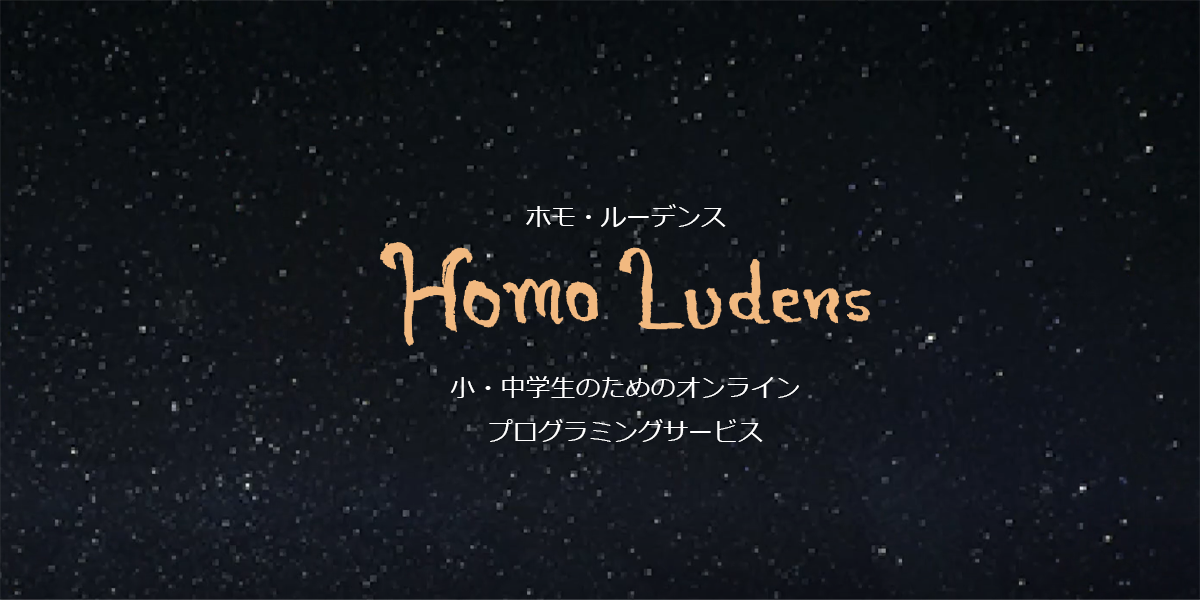
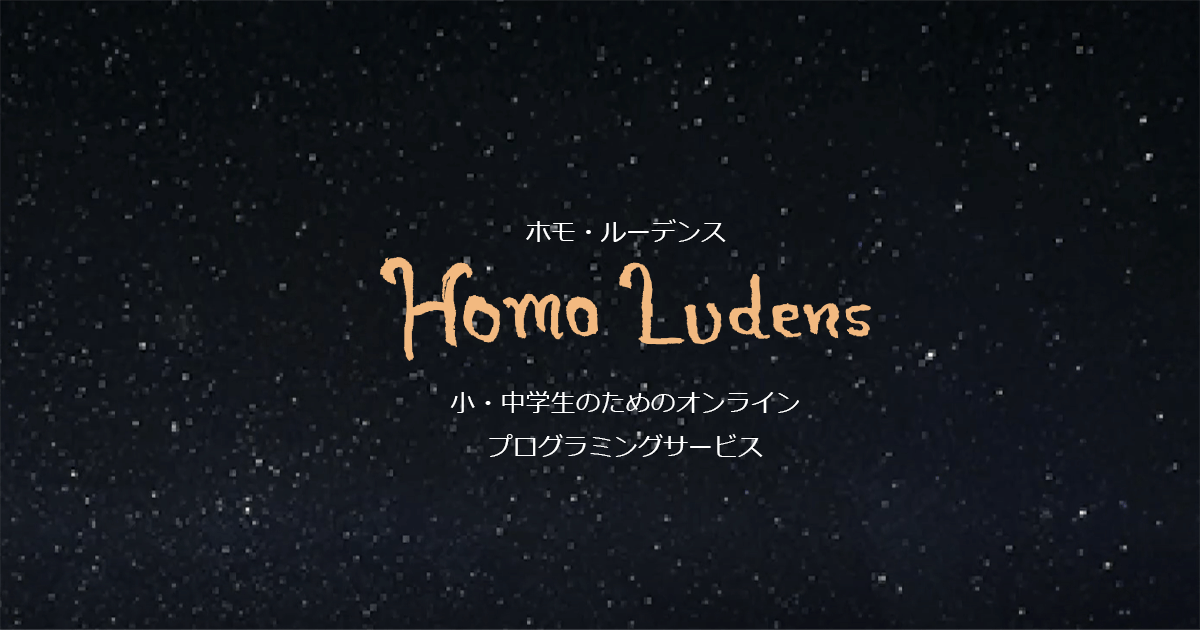
ogp画像を変更、パンくずリストの位置調整

diff --git a/pages/index.vue b/pages/index.vue
@@ -93,13 +93,22 @@
 
     <div class="features_area area">
       <div class="features_title title">
-        <img class="features_title_img" src="~/assets/images/HomoLudens_logo.svg" alt="HomoLudensのロゴ" loading="lazy" />
+        <img
+          class="features_title_img"
+          src="~/assets/images/HomoLudens_logo.svg"
+          alt="HomoLudensのロゴ"
+          loading="lazy"
+        />
         <h2 class="title_text">の特徴</h2>
       </div>
 
       <div class="wrapper_features_content">
         <div class="features_content">
-          <img src="~/assets/images/ludens-feature1.svg" alt="" loading="lazy" />
+          <img
+            src="~/assets/images/ludens-feature1.svg"
+            alt=""
+            loading="lazy"
+          />
 
           <div class="features_text">
             <h3>好きな場所で好きな時間に</h3>
@@ -111,7 +120,11 @@
         </div>
 
         <div class="features_content">
-          <img src="~/assets/images/ludens-feature2.svg" alt="" loading="lazy" />
+          <img
+            src="~/assets/images/ludens-feature2.svg"
+            alt=""
+            loading="lazy"
+          />
 
           <div class="features_text">
             <h3>一人ひとりに合わせた授業</h3>
@@ -123,12 +136,16 @@
         </div>
 
         <div class="features_content">
-          <img src="~/assets/images/ludens-feature3.svg" alt="" loading="lazy" />
+          <img
+            src="~/assets/images/ludens-feature3.svg"
+            alt=""
+            loading="lazy"
+          />
 
           <div class="features_text">
             <h3>いつでも質問できる仕組み</h3>
             <p>
-              授業中にいつでも質問、相談できるのはもちろんのこと、授業外でもHomoLudensの公式LINEアカウントからいつでも質問することが出来ます。
+              授業中にいつでも質問、相談できるのはもちろんのこと、授業外でもHomoLudensの公式LINEアカウントからいつでも質問することが出来ます。（LINEアカウントはお申込み時にメールにてお伝えします）
               <br />授業で分からなかったところや、自作したプログラムについてでも構いません。様々な質問に真摯にお答えします。
             </p>
           </div>
@@ -194,7 +211,11 @@
                 srcset="images/course-image2_640.jpg"
                 media="(max-width: 960px)"
               />
-              <img src="images/course-image2_1280.jpg" alt="web開発" loading="lazy" />
+              <img
+                src="images/course-image2_1280.jpg"
+                alt="web開発"
+                loading="lazy"
+              />
             </picture>
             <p class="not-ready_text">
               ※現在このコースは受付をしていません
@@ -292,7 +313,7 @@
                 ２、申し込み後、ご登録いただいたメールアドレスに必要なURLや日時などを記載したメールが届きます。
               </p>
               <p>
-                ３、指定した日時になりましたら、メールに記載されたURLにアクセスして体験授業を受講して下さい（事前にzoomの設定をしておく必要があります)<br />分からない点はメールやLINEでご連絡ください。（LINEアカウントはお申込み時にメールでお伝えします）
+                ３、指定した日時になりましたら、メールに記載されたURLにアクセスして体験授業を受講して下さい（事前にzoomの設定をしておく必要があります)<br />分からない点はメールやLINEでご連絡ください。（LINEアカウントはお申込み時にメールにてお伝えします）
               </p>
               <p>
                 ４、体験授業を受講してコースを続けたいと思った場合は、受講する曜日と時間を講師と相談しながら決定します。
@@ -315,9 +336,9 @@
 <script>
 export default {
   created() {
-   if (process.client) {
-      window.addEventListener('resize', this.handleResize)
-      this.handleResize()
+    if (process.client) {
+      window.addEventListener("resize", this.handleResize);
+      this.handleResize();
     }
   },
   mounted() {
@@ -326,20 +347,19 @@ export default {
       firstLoader.classList.add("none_class");
     });
   },
-  destroyed () {
+  destroyed() {
     if (process.client) {
-      window.removeEventListener('resize', this.handleResize)
+      window.removeEventListener("resize", this.handleResize);
     }
   },
   methods: {
-    handleResize () {
-      const height = window.innerHeight
-      document.documentElement.style.setProperty('--vh', height/100 + 'px');
+    handleResize() {
+      const height = window.innerHeight;
+      document.documentElement.style.setProperty("--vh", height / 100 + "px");
     }
   }
 };
 </script>
-
 
 <style lang="scss" scoped>
 :root {
@@ -359,7 +379,7 @@ export default {
   }
   @include desktop-size {
     min-height: 550px;
-    }
+  }
 }
 
 .first_loader {
@@ -505,6 +525,7 @@ export default {
       max-width: 800px;
       margin: 0 auto 60px;
       padding: 20px;
+      align-items: center;
     }
     img {
       margin-bottom: 12px;

diff --git a/nuxt.config.js b/nuxt.config.js
@@ -39,9 +39,10 @@ export default {
       {
         hid: "og:image",
         property: "og:image",
-        content: "images/homoludens_ogp.png"
+        content: "https://homoludens.dev/images/homoludens_ogp.png"
       },
-      { name: "twitter:card", content: "summary_large_image" }
+      { name: "twitter:card", content: "summary_large_image" },
+      { name: "twitter:site", content: "@kanoi_y" } 
     ],
     link: [{ rel: "icon", type: "image/x-icon", href: "/favicon.ico" }]
   },

diff --git a/pages/blog/_slug/index.vue b/pages/blog/_slug/index.vue
@@ -99,6 +99,9 @@ export default {
   margin-bottom: 15px;
   display: flex;
   li {
+    display: flex;
+    align-items: center;
+    text-align: center;
     font-size: 0.8rem;
     color: $button-color;
     &::after {
